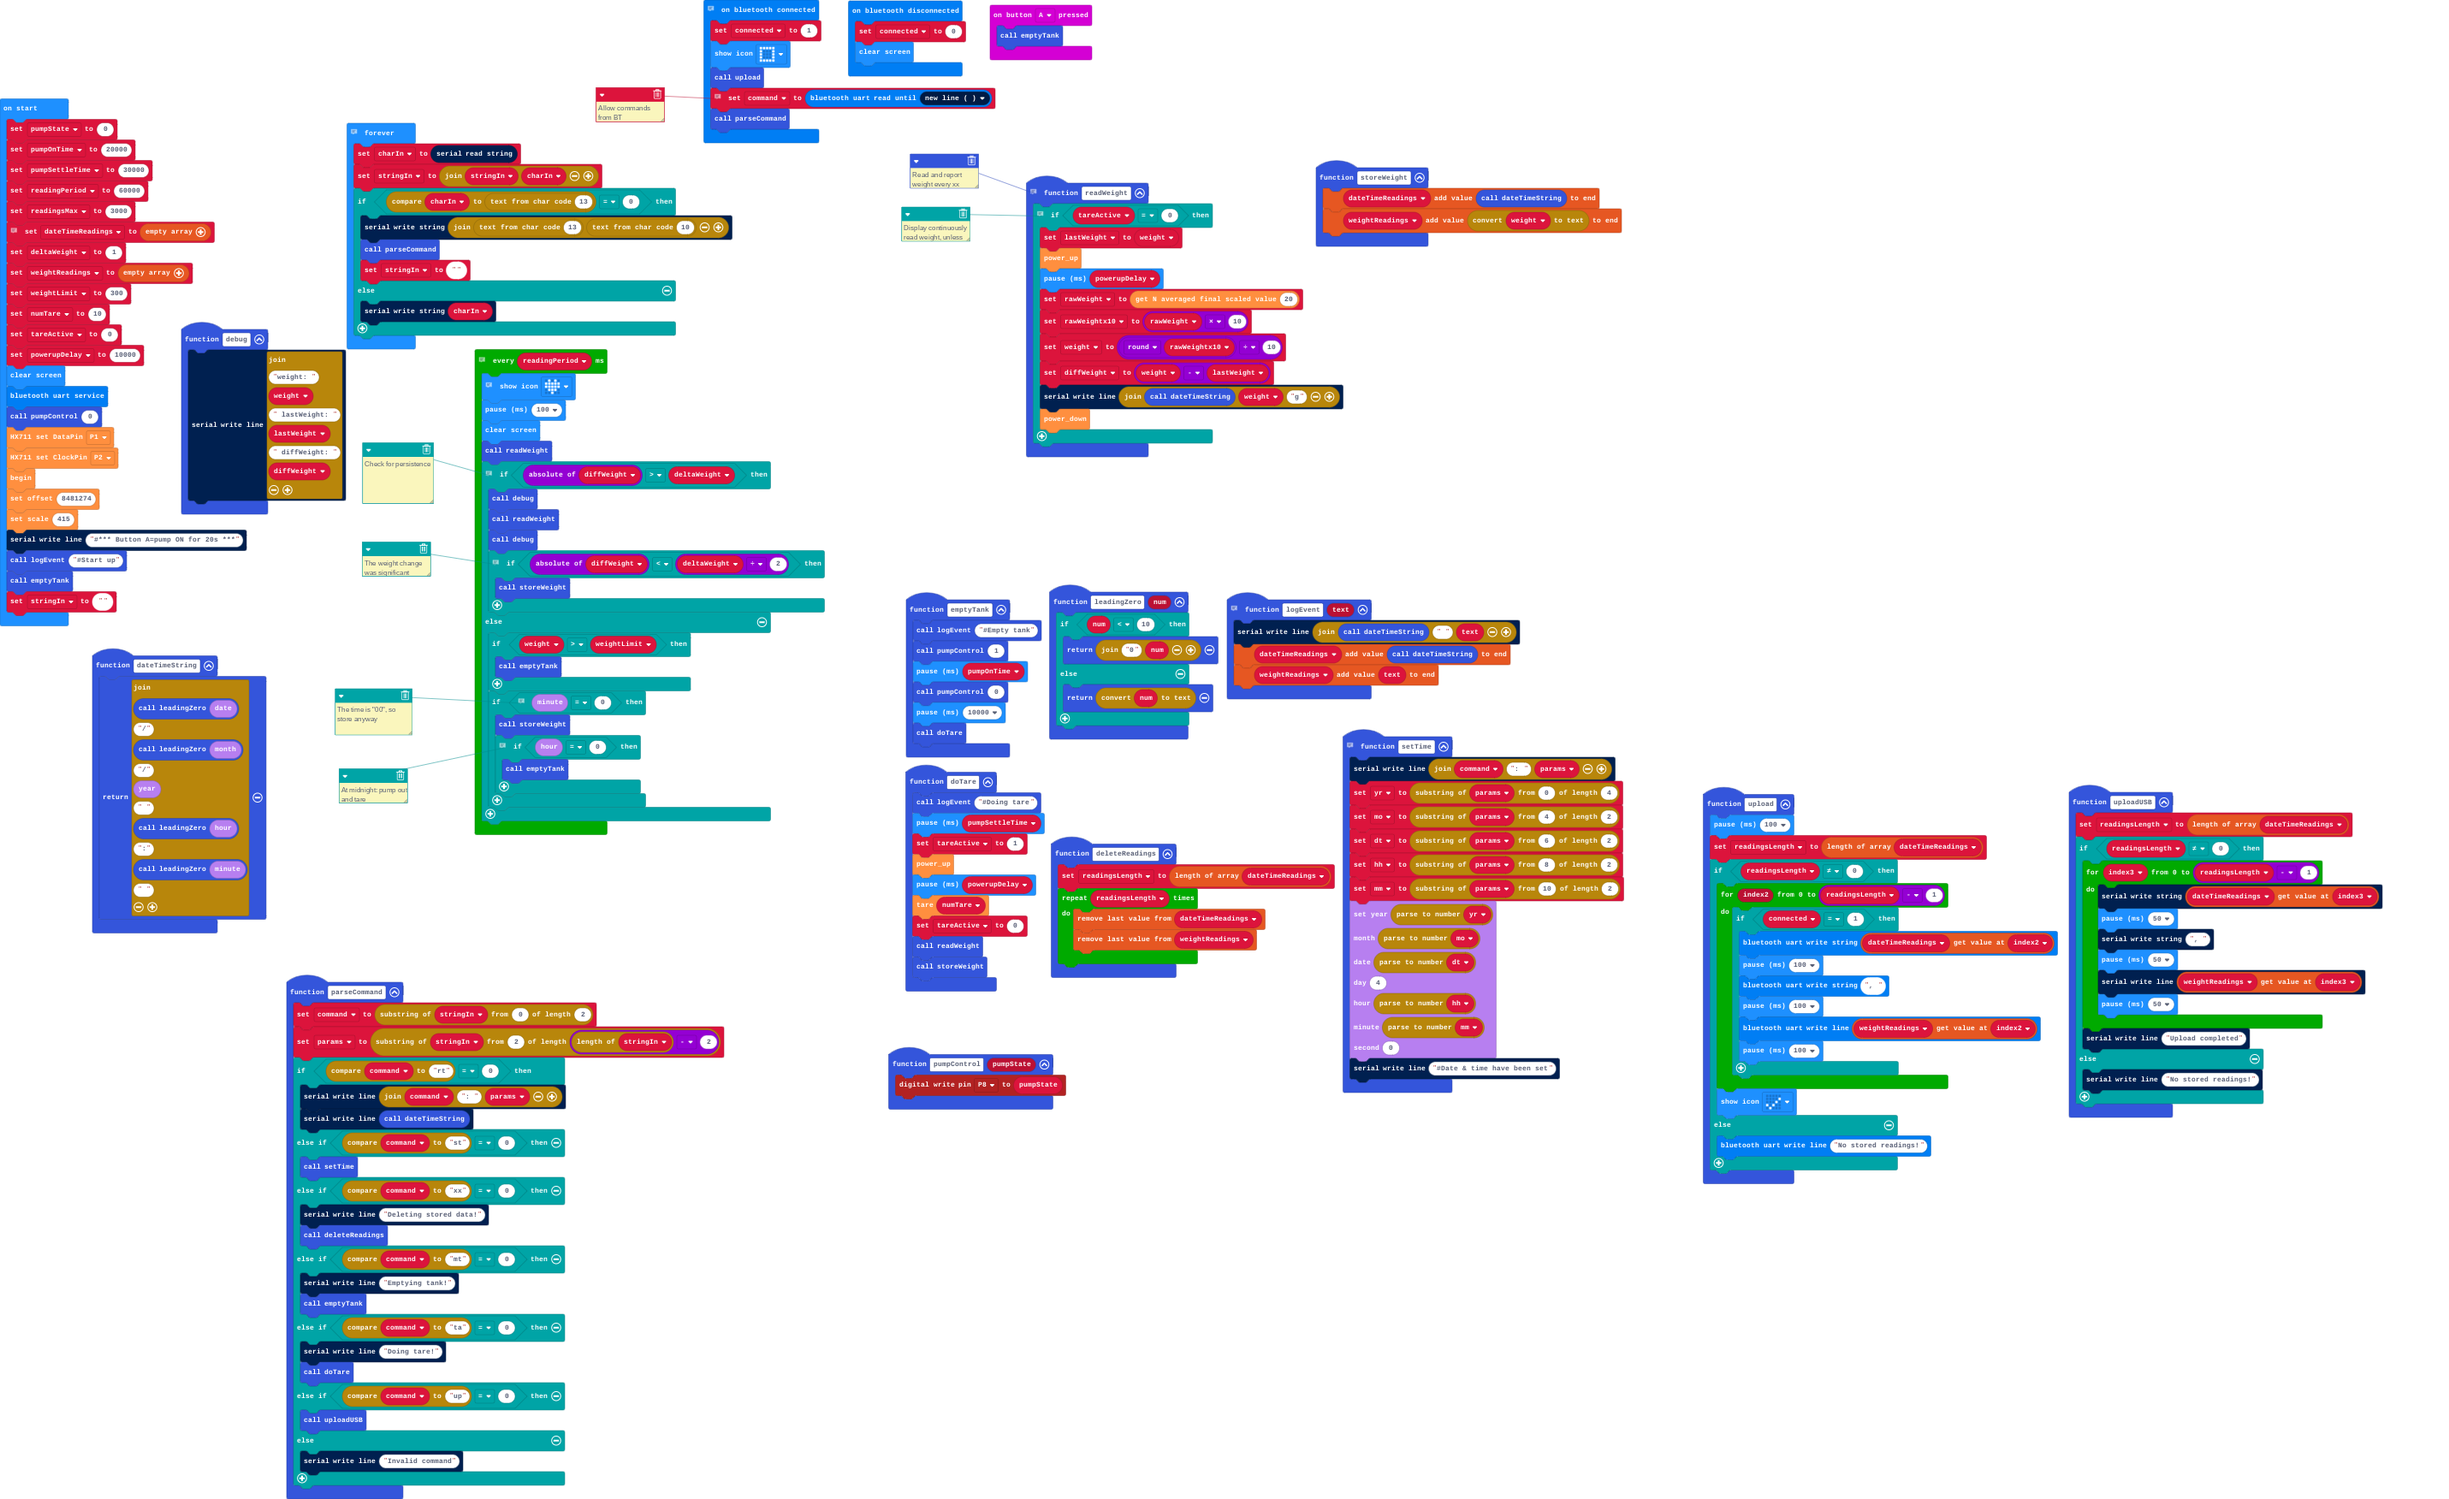
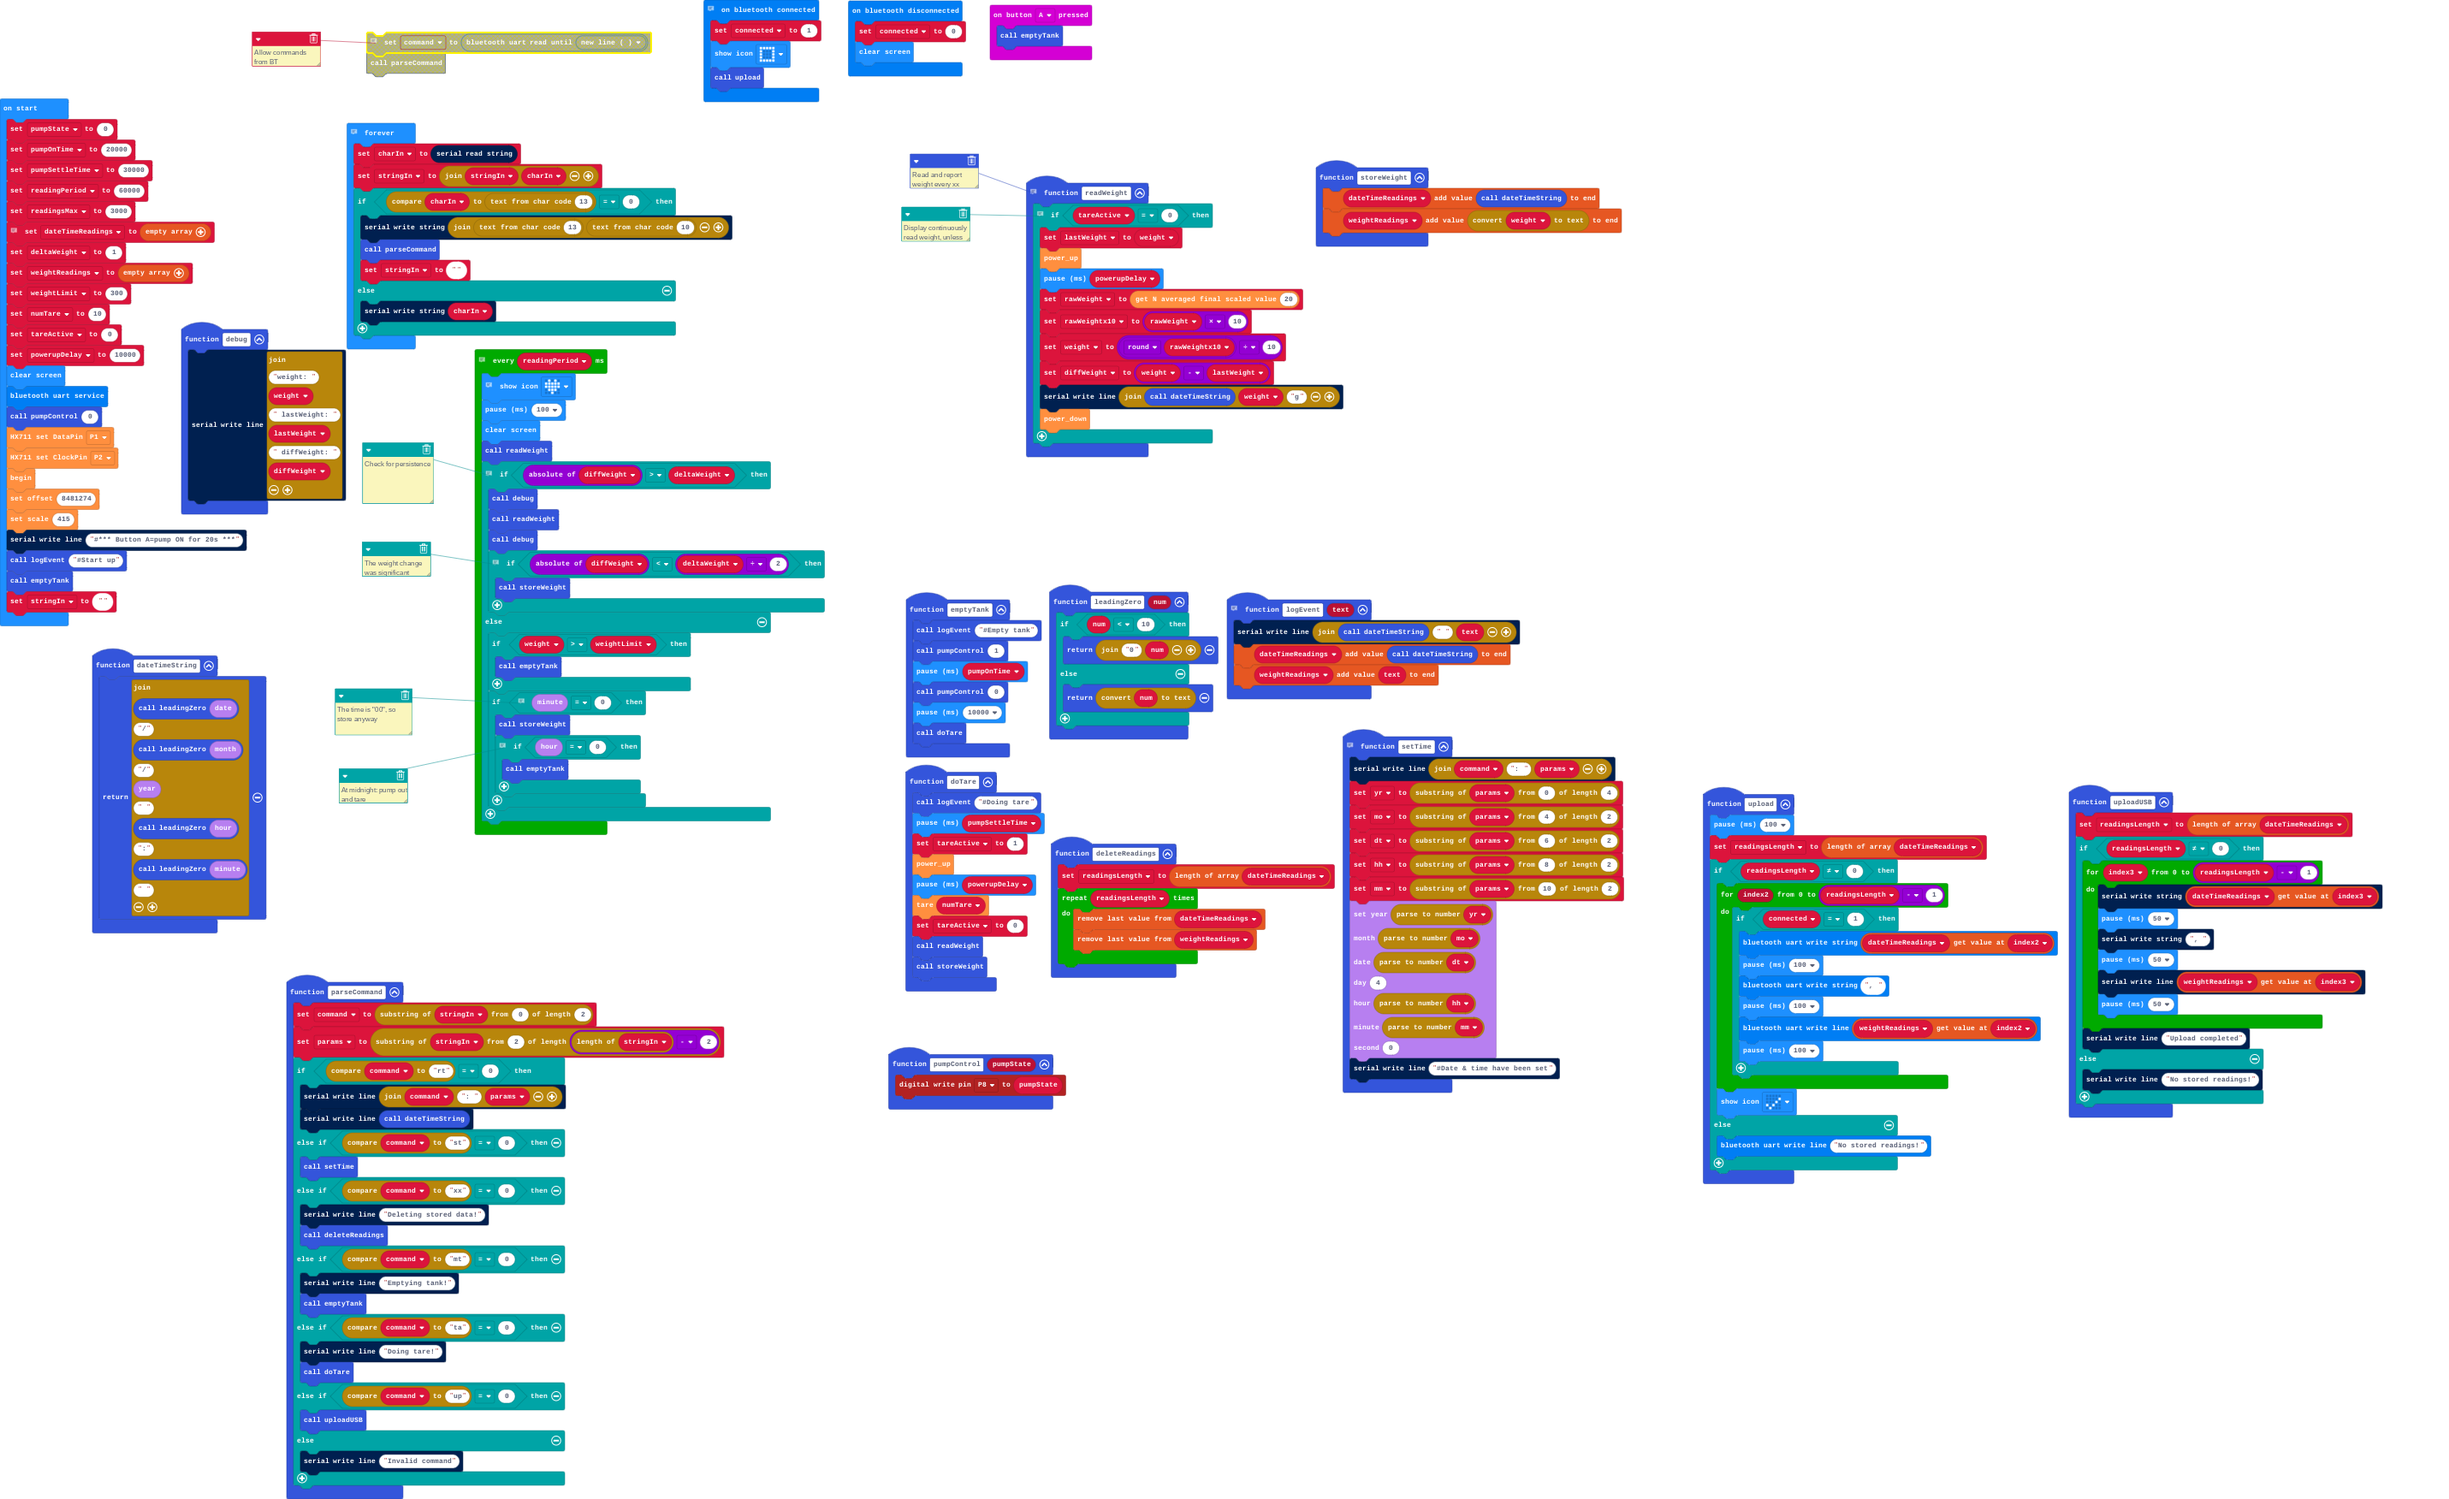
removed BT command bits - stops upload!

Changed region(s): [[0.0933, 0.0, 0.4043, 0.0925]]

diff --git a/main.ts b/main.ts
@@ -54,9 +54,6 @@ bluetooth.onBluetoothConnected(function () {
     connected = 1
     basic.showIcon(IconNames.Square)
     upload()
-    // Allow commands from BT
-    command = bluetooth.uartReadUntil(serial.delimiters(Delimiters.NewLine))
-    parseCommand()
 })
 bluetooth.onBluetoothDisconnected(function () {
     connected = 0
